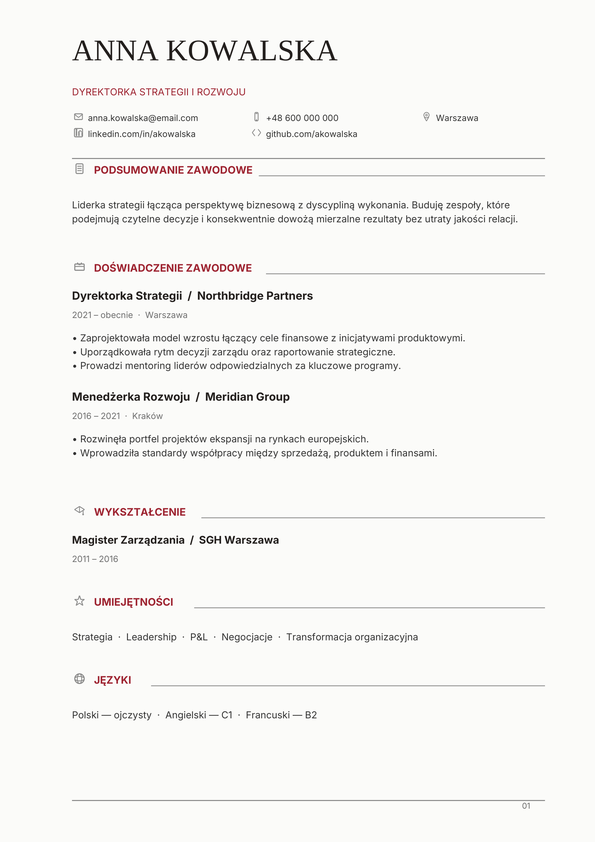
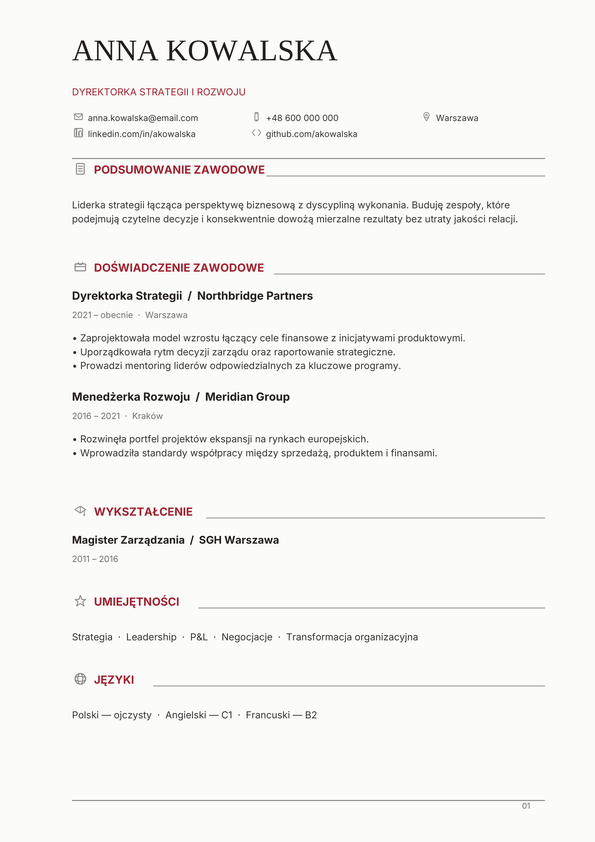
cardinal

diff --git a/frontend/src/templates/cardinal.test.js b/frontend/src/templates/cardinal.test.js
@@ -30,7 +30,7 @@ test("Cardinal reserves red for headings while icons and rules stay grey", () =>
     assert.equal(sectionHeadings.length, 5);
     assert.ok(sectionHeadings.every((element) => element.color === CARDINAL));
     assert.ok(sectionHeadings.every((element) => element.fontFamily === "Helvetica"));
-    assert.ok(sectionHeadings.every((element) => element.fontSize === 10.4));
+    assert.ok(sectionHeadings.every((element) => element.fontSize === 11.2));
     assert.ok(sectionHeadings.every((element) => element.bold === true));
     assert.ok(sectionHeadings.every((element) => element.left === 94));
 
@@ -43,6 +43,7 @@ test("Cardinal reserves red for headings while icons and rules stay grey", () =>
     const sectionIcons = icons.filter((element) => element.flowRole === "section-chrome");
     assert.equal(sectionIcons.length, 5);
     assert.ok(sectionIcons.every((element) => element.left === 72));
+    assert.ok(sectionIcons.every((element) => element.width === 16.5 && element.height === 16.5));
 
     // ── Decorative lines: every rule except the paper surface is grey ────────
     const lines = cardinalTemplate.filter((element) => element.category === "line");
@@ -54,8 +55,8 @@ test("Cardinal reserves red for headings while icons and rules stay grey", () =>
     assert.ok(sectionRules.every((element) => element.left > 94));
     assert.ok(sectionRules.every((element) => element.left + element.width === 545));
     for (const heading of sectionHeadings) {
-        const rule = sectionRules.find((element) => element.top > heading.top && element.top < heading.top + heading.fontSize);
-        assert.ok(rule, `${heading.content} rule crosses the optical cap midline`);
+        const rule = sectionRules.find((element) => element.top === heading.top + heading.fontSize / 2);
+        assert.ok(rule, `${heading.content} rule crosses the exact heading midline`);
     }
 
     // ── Body copy: dark grey, readable (never sub-9pt) ───────────────────────

diff --git a/frontend/src/templates/cardinal.js b/frontend/src/templates/cardinal.js
@@ -30,10 +30,10 @@ const TEXT_X = 72; // body, contact icons and section compositions share this ed
 const HEADING_X = TEXT_X + 22; // icon occupies the first 15 pt of the heading row
 const RIGHT = 545; // content right edge (≈72 pt symmetric margins)
 const CONTENT_W = RIGHT - TEXT_X; // 473 pt usable text column
-const SECTION_ICON = 15; // large enough to balance the upgraded heading caps
+const SECTION_ICON = 16.5; // slightly larger than the caps without dominating them
 const CONTACT_ICON = 13; // slightly smaller glyph for the contact row
-const HEAD_FS = 10.4; // clear executive hierarchy without overpowering record titles
-const HEAD_TRACKING = 1.15;
+const HEAD_FS = 11.2; // remains above the requested 11 px minimum
+const HEAD_TRACKING = 1.05;
 
 const bold = (element) => ({ ...element, bold: true });
 const tracked = (element, letterSpacing) => ({ ...element, letterSpacing });
@@ -73,7 +73,7 @@ const sectionHead = (iconName, label, top) => {
             flowRole: "section-chrome",
         },
         {
-            ...line(ruleLeft, top + HEAD_FS * 0.52, RIGHT - ruleLeft, 0.8, GREY, 2),
+            ...line(ruleLeft, top + HEAD_FS / 2, RIGHT - ruleLeft, 0.8, GREY, 2),
             flowRole: "section-chrome",
         },
     ];

diff --git a/backend/app/services/cv_templates/templates/cardinal.py b/backend/app/services/cv_templates/templates/cardinal.py
@@ -54,9 +54,9 @@ def _gen_cardinal(cv: dict) -> list[dict]:
     header = [{**element, "flowRole": "masthead"} for element in header]
     start_y = header_rule_y + 1.0 + SPACE_AFTER_HEADER_RULE
     b = Builder(start_y)
-    label_fs = 10.4
-    label_tracking = 1.15
-    section_icon = 15.0
+    label_fs = 11.2
+    label_tracking = 1.05
+    section_icon = 16.5
     heading_x = L + 22
     SECTION_CHROME = label_fs + 10 + get_spacing().after_rule
 
@@ -79,7 +79,7 @@ def _gen_cardinal(cv: dict) -> list[dict]:
         label_width = len(label) * (label_fs * 0.58 + label_tracking)
         rule_left = min(heading_x + label_width + 14, L + W - 54)
         rule = _line(
-            rule_left, y + label_fs * 0.52, L + W - rule_left, 0.8,
+            rule_left, y + label_fs / 2, L + W - rule_left, 0.8,
             C['rule'], page=page,
         )
         rule['flowRole'] = 'section-chrome'

diff --git a/backend/tests/test_cv_template_layouts.py b/backend/tests/test_cv_template_layouts.py
@@ -1730,8 +1730,11 @@ class CvTemplateLayoutTests(unittest.TestCase):
         )
         self.assertEqual(icon["left"], 72)
         self.assertEqual(heading["left"], 94)
-        self.assertEqual(heading["fontSize"], 10.4)
+        self.assertEqual(heading["fontSize"], 11.2)
         self.assertTrue(heading["bold"])
+        self.assertEqual(icon["width"], 16.5)
+        self.assertEqual(icon["height"], 16.5)
+        self.assertAlmostEqual(rule["top"], heading["top"] + heading["fontSize"] / 2)
         self.assertGreater(rule["left"], heading["left"])
         self.assertAlmostEqual(rule["left"] + rule["width"], 545)
         masthead_icons = [

diff --git a/README.md b/README.md
@@ -640,7 +640,7 @@ Known limitation: Words reproduces the visual language of a carefully formatted 
 
 ### Cardinal noble-red template
 
-Cardinal is a paid single-column template (`layouts: ["icons"]`) for candidates who want a formal document with one restrained accent of colour. It reserves a "noble red" (`#9E2532`) for typography only — the role line under the name and every section heading — while all ornament stays neutral grey (`#8A8A8A`). Section headings use bold 10.4 pt Helvetica and form one horizontal composition: the 15 pt icon begins exactly at the body column (`x=72`), the label starts at `x=94`, and a 0.8 pt hairline continues from a protected 14 pt gap after the tracked label through the right edge. The line crosses the optical middle of the heading caps instead of sitting beneath them. Contact icons also stay inside the body edge. Body copy is dark grey (`#333333`) at 9.6 pt / 13.8 pt line height; the name uses 30 pt Times-Roman.
+Cardinal is a paid single-column template (`layouts: ["icons"]`) for candidates who want a formal document with one restrained accent of colour. It reserves a "noble red" (`#9E2532`) for typography only — the role line under the name and every section heading — while all ornament stays neutral grey (`#8A8A8A`). Section headings use bold 11.2 pt Helvetica and form one horizontal composition: the 16.5 pt icon begins exactly at the body column (`x=72`), the label starts at `x=94`, and a 0.8 pt hairline continues from a protected 14 pt gap after the tracked label through the right edge. The line is positioned mathematically at half the heading font size (`top + fontSize / 2`). Contact icons also stay inside the body edge. Body copy is dark grey (`#333333`) at 9.6 pt / 13.8 pt line height; the name uses 30 pt Times-Roman.
 
 The grey glyphs come from a dedicated `cardinal` theme added to the shared icon pipeline (`scripts/generate_iconic_icons.py`, `THEMES["cardinal"] = "#8A8A8A"`), rendered to `backend/template_assets/iconic/cardinal/*.png` and served from the existing `/template-assets/` mount. The static editor preview and the deterministic AI fill share one visual identity because the backend generator reuses the same single-column icon machinery as other icon-tagged templates, under its own layout branch so no red accent band is drawn.
 
@@ -2116,7 +2116,7 @@ Znane ograniczenie: Words odtwarza wizualny język starannie sformatowanego doku
 
 ### Szablon Cardinal w szlachetnej czerwieni
 
-Cardinal to płatny jednokolumnowy szablon (`layouts: ["icons"]`) dla osób, które chcą formalnego dokumentu z jednym powściągliwym akcentem koloru. „Szlachetna czerwień” (`#9E2532`) jest zarezerwowana wyłącznie dla typografii — linii stanowiska pod nazwiskiem oraz każdego nagłówka sekcji — a cała dekoracja pozostaje neutralnie szara (`#8A8A8A`). Nagłówki używają pogrubionej Helvetica 10,4 pt i tworzą jedną poziomą kompozycję: ikona 15 pt zaczyna się dokładnie na krawędzi body (`x=72`), etykieta na `x=94`, a hairline 0,8 pt biegnie od bezpiecznego odstępu 14 pt za śledzoną etykietą do prawej krawędzi. Linia przechodzi przez optyczny środek kapitalików zamiast leżeć pod nagłówkiem. Ikony kontaktu również nie wystają poza krawędź body. Treść jest ciemnoszara (`#333333`) w rozmiarze 9,6 pt / line height 13,8 pt; nazwisko używa Times-Roman 30 pt.
+Cardinal to płatny jednokolumnowy szablon (`layouts: ["icons"]`) dla osób, które chcą formalnego dokumentu z jednym powściągliwym akcentem koloru. „Szlachetna czerwień” (`#9E2532`) jest zarezerwowana wyłącznie dla typografii — linii stanowiska pod nazwiskiem oraz każdego nagłówka sekcji — a cała dekoracja pozostaje neutralnie szara (`#8A8A8A`). Nagłówki używają pogrubionej Helvetica 11,2 pt i tworzą jedną poziomą kompozycję: ikona 16,5 pt zaczyna się dokładnie na krawędzi body (`x=72`), etykieta na `x=94`, a hairline 0,8 pt biegnie od bezpiecznego odstępu 14 pt za śledzoną etykietą do prawej krawędzi. Linia jest ustawiana matematycznie w połowie rozmiaru nagłówka (`top + fontSize / 2`). Ikony kontaktu również nie wystają poza krawędź body. Treść jest ciemnoszara (`#333333`) w rozmiarze 9,6 pt / line height 13,8 pt; nazwisko używa Times-Roman 30 pt.
 
 Szare glify pochodzą z dedykowanego motywu `cardinal` dodanego do wspólnego potoku ikon (`scripts/generate_iconic_icons.py`, `THEMES["cardinal"] = "#8A8A8A"`), renderowane do `backend/template_assets/iconic/cardinal/*.png` i serwowane z istniejącego montowania `/template-assets/`. Statyczny podgląd w edytorze i deterministyczne wypełnianie AI mają jedną tożsamość wizualną, ponieważ generator backendu korzysta z tej samej jednokolumnowej maszynerii ikon co inne szablony z tagiem `icons`, w osobnej gałęzi układu, dzięki czemu nie jest rysowany żaden czerwony pas akcentu.
 
